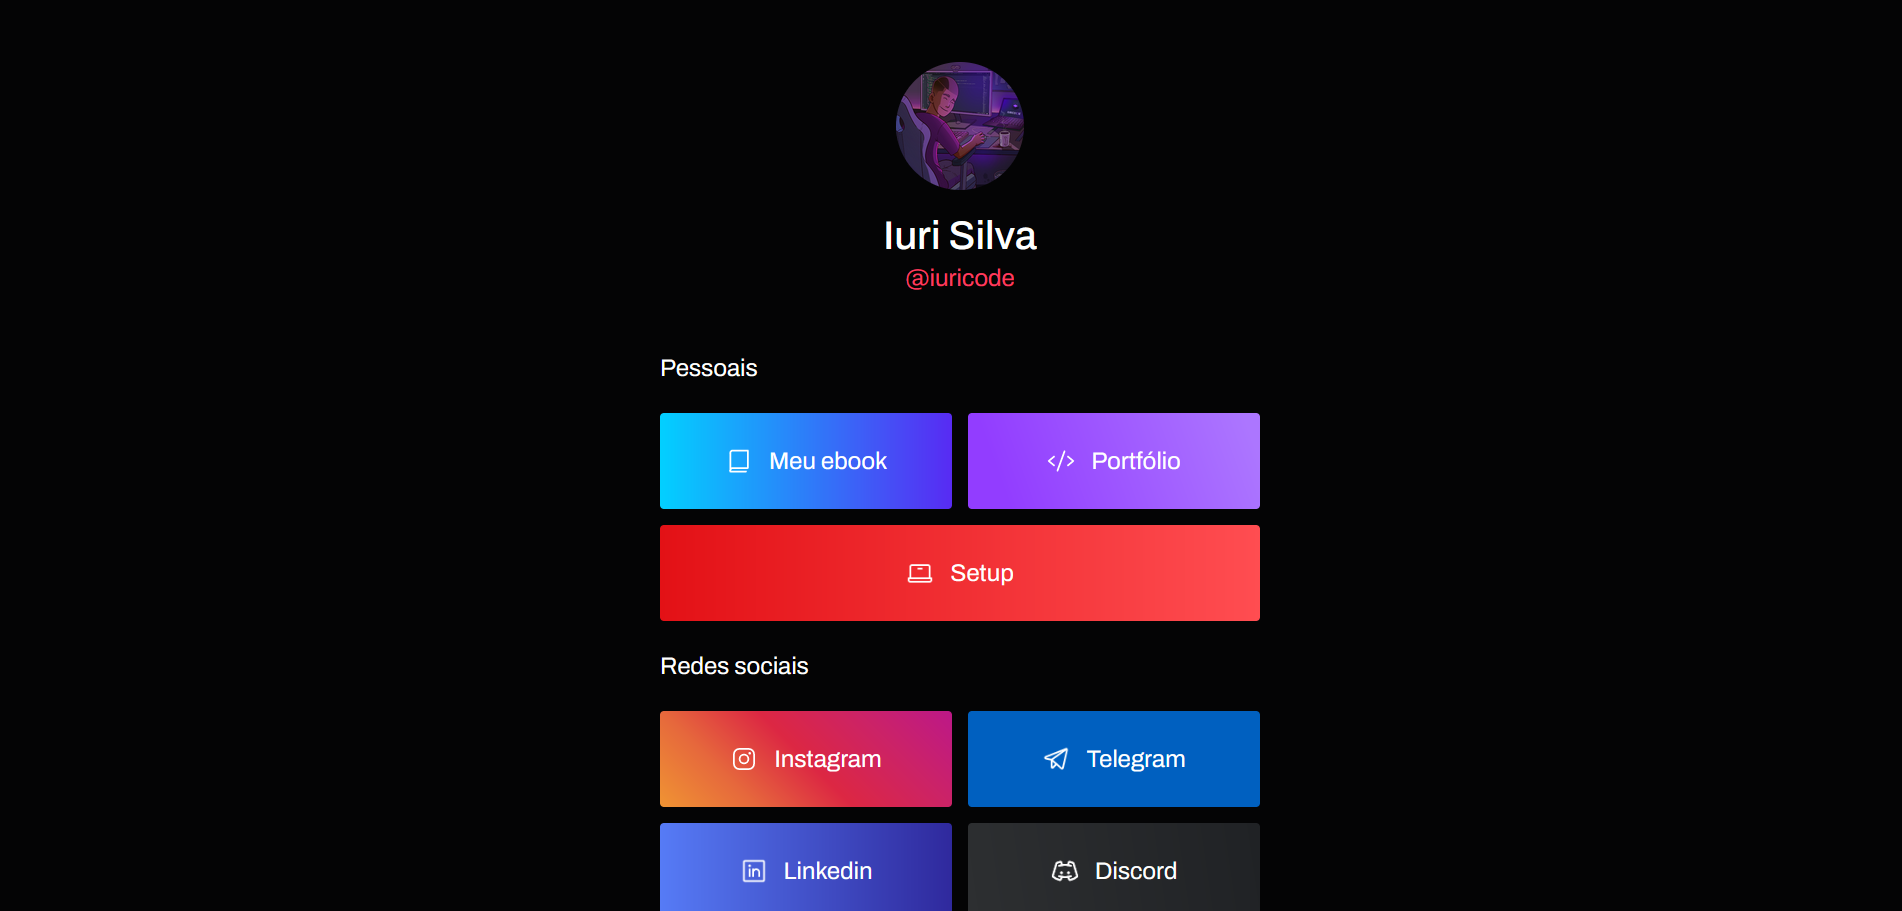
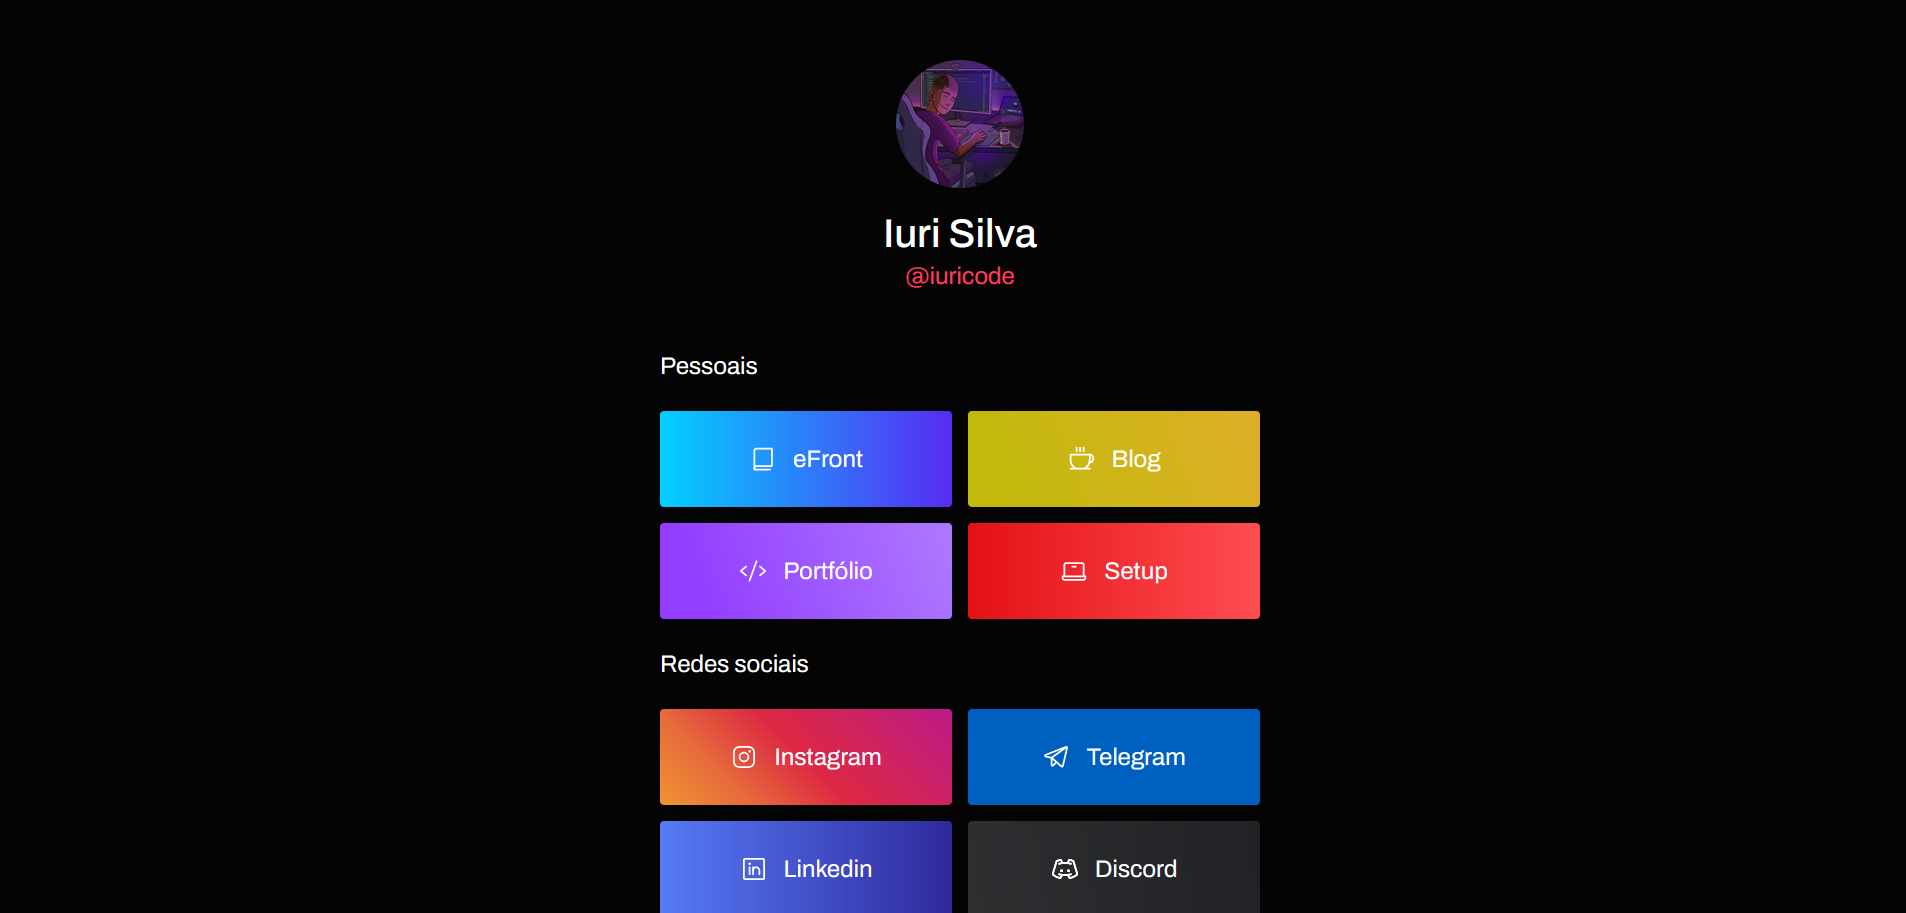
:sparkles: adicionando novos links

diff --git a/index.html b/index.html
@@ -71,6 +71,22 @@
             </article>
           </a>
 
+          <a href="https://iuricode-blog.vercel.app/" rel="noopener" target="_blank">
+            <article
+              style="
+                background: linear-gradient(70deg, #c2b90c 13%, #ddaf26 95%);
+              "
+            >
+              <img
+                src="assets/icons/coffee.svg"
+                alt="ícone feliz"
+                width="28px"
+                height="28px"
+              />
+              <h2>Blog</h2>
+            </article>
+          </a>
+
           <a href="https://www.iuricode.com/" rel="noopener" target="_blank">
             <article
               style="
@@ -211,6 +227,22 @@
                 height="28px"
               />
               <h2>GitHub</h2>
+            </article>
+          </a>
+
+          <a href="https://www.behance.net/iuricode" rel="noopener" target="_blank">
+            <article
+              style="
+                background: linear-gradient(58deg, #1f9b29 8%, #39b475 98%);
+              "
+            >
+              <img
+                src="assets/icons/behance.svg"
+                alt="ícone github"
+                width="28px"
+                height="28px"
+              />
+              <h2>Behance</h2>
             </article>
           </a>
         </div>
